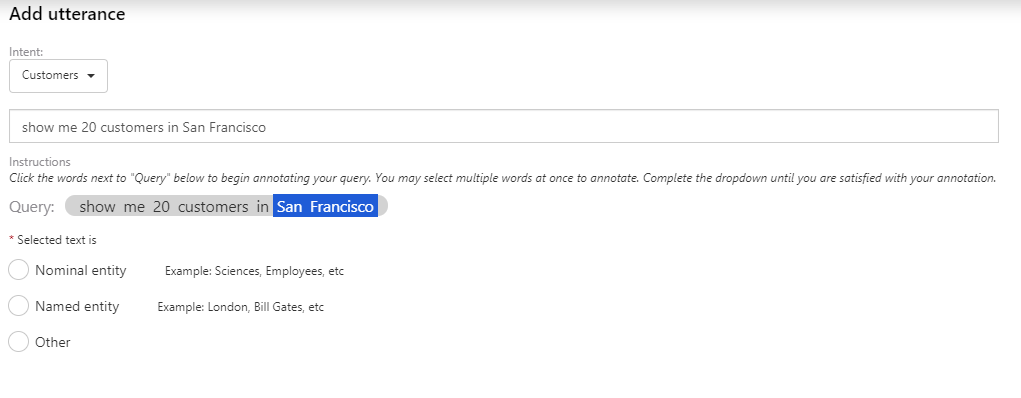
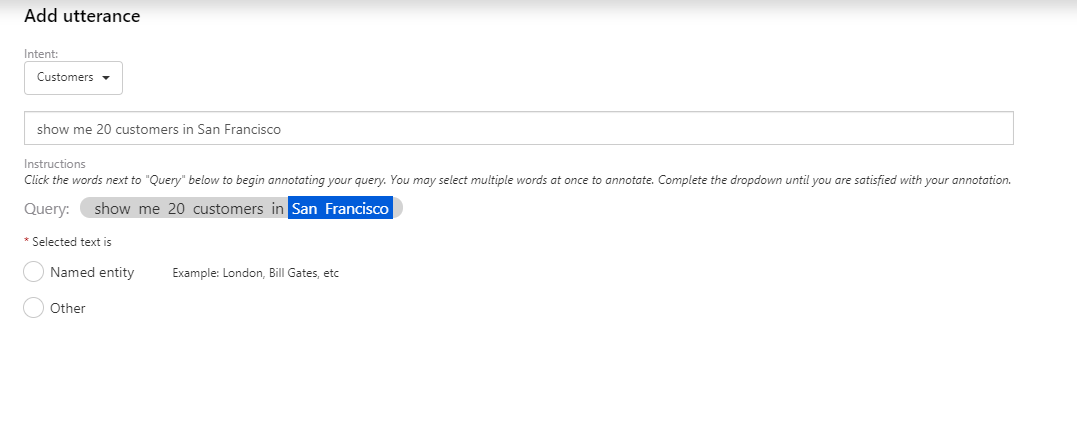
removing nominal entity from documentation

diff --git a/enterprise-graph/intent-classifier.md b/enterprise-graph/intent-classifier.md
@@ -58,7 +58,7 @@ To add a new utterance, you can click the 'Add' button on the toolbar, then you 
 
 You can type in an utterance that you come up with, after this, a query will be shown on the bottom where you can add the annotations. 
 
-There are three types of annotations: ```Nominal entity```, ```Named entity``` and ```Other```. For example, you can annotate 'Sciences' or 'Employees' as ```Nominal entity``` and annotate 'London' or 'Bill Gates' as ```Named entity```. For ```Other```, it is for primitive type or custom tag.
+There are two types of annotations: ```Named entity``` and ```Other```. For example, you can annotate 'London' or 'Bill Gates' as ```Named entity```. For ```Other```, it is for primitive type or custom tag.
 
 To add an annotation, you can select the words by clicking them, you may select multiple at once to annotate. Then you will see the radio buttons.
 
@@ -67,12 +67,6 @@ To add an annotation, you can select the words by clicking them, you may select 
 For example, we are annotating 'San Francisco'. We can select ```Named entity``` and then choose the corresponding 'Entity type' from your published ontology. 
 
 ![Add-utterance-named-entity view](media/intent-classifier-tutorial/add-utterance-named-entity.png)
-
-Similarly, we can add a ```Nominal entity``` annotation.
-
-For custom tag, you can either choose from the history list or add a new one by clicking 'Add custom tag':
-
-![Add-utterance-custom-tag view](media/intent-classifier-tutorial/add-utterance-custom-tag.png)
 
 After annotating, you will see the view below. If you want to change the annotating, you can delete the annotation in the 'Summary' section and annotate again by following the steps above. If your annotating is completed, you can click the 'Save' button on the bottom.
 
